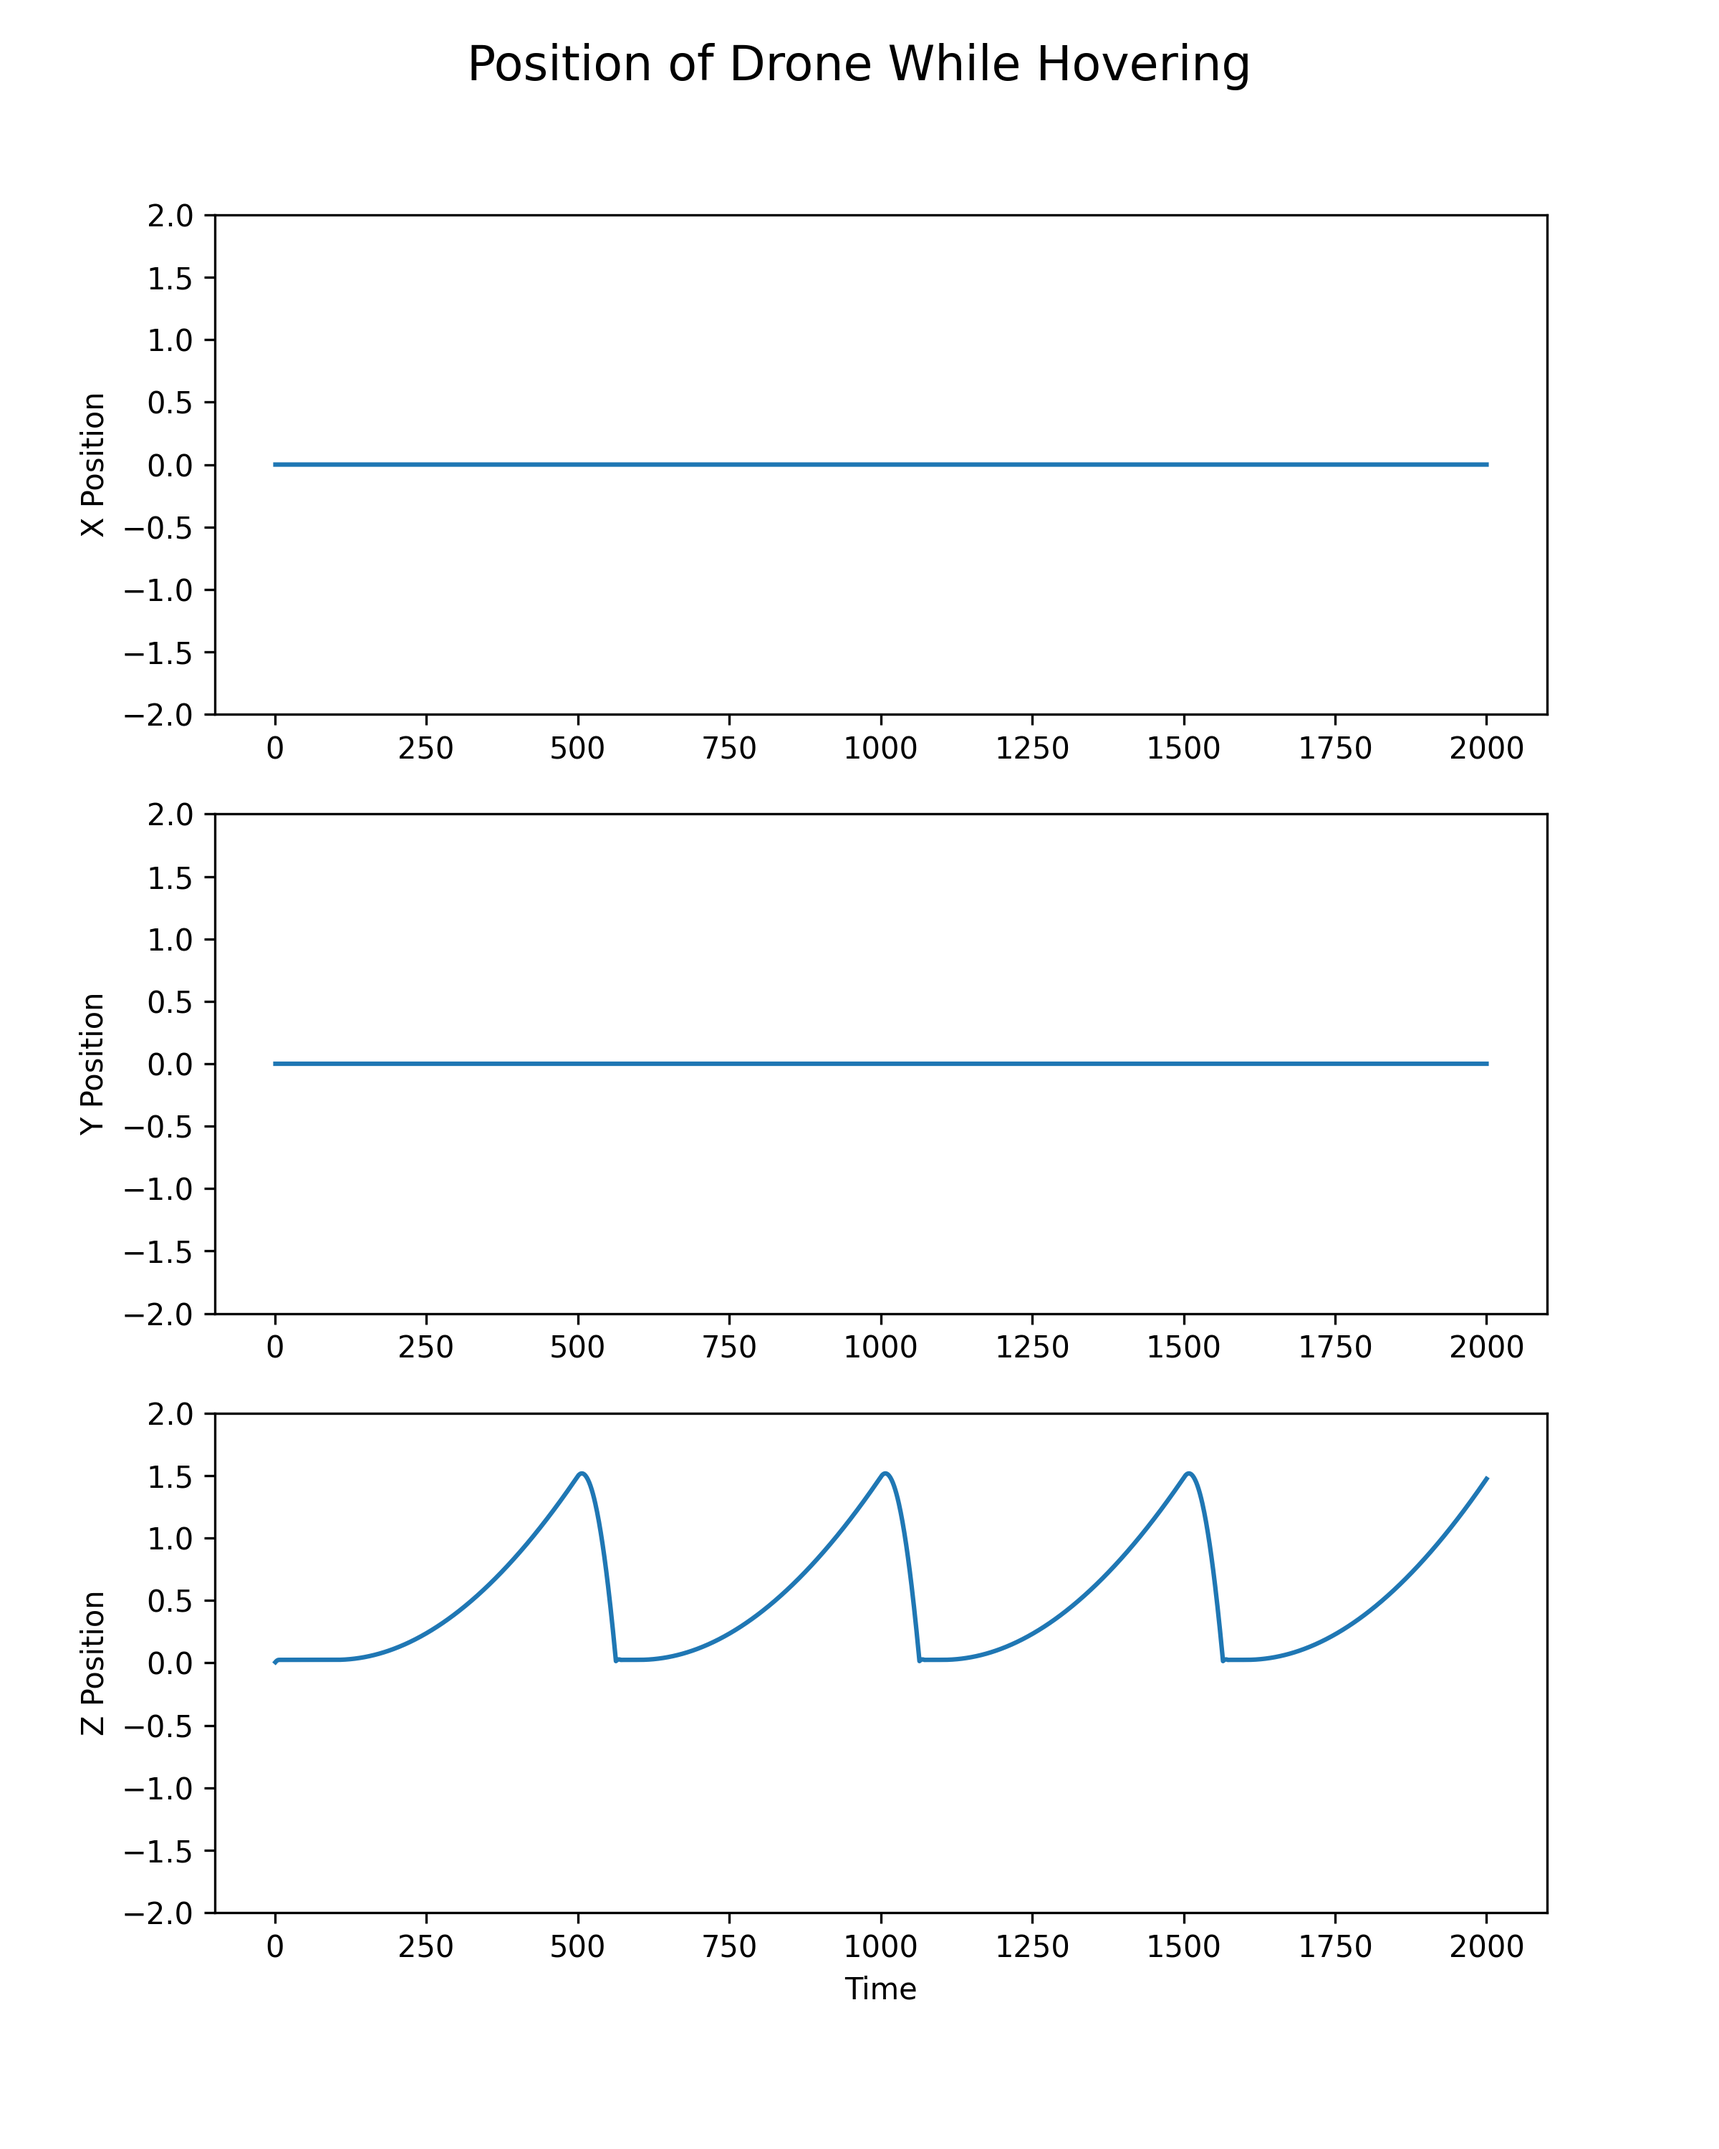
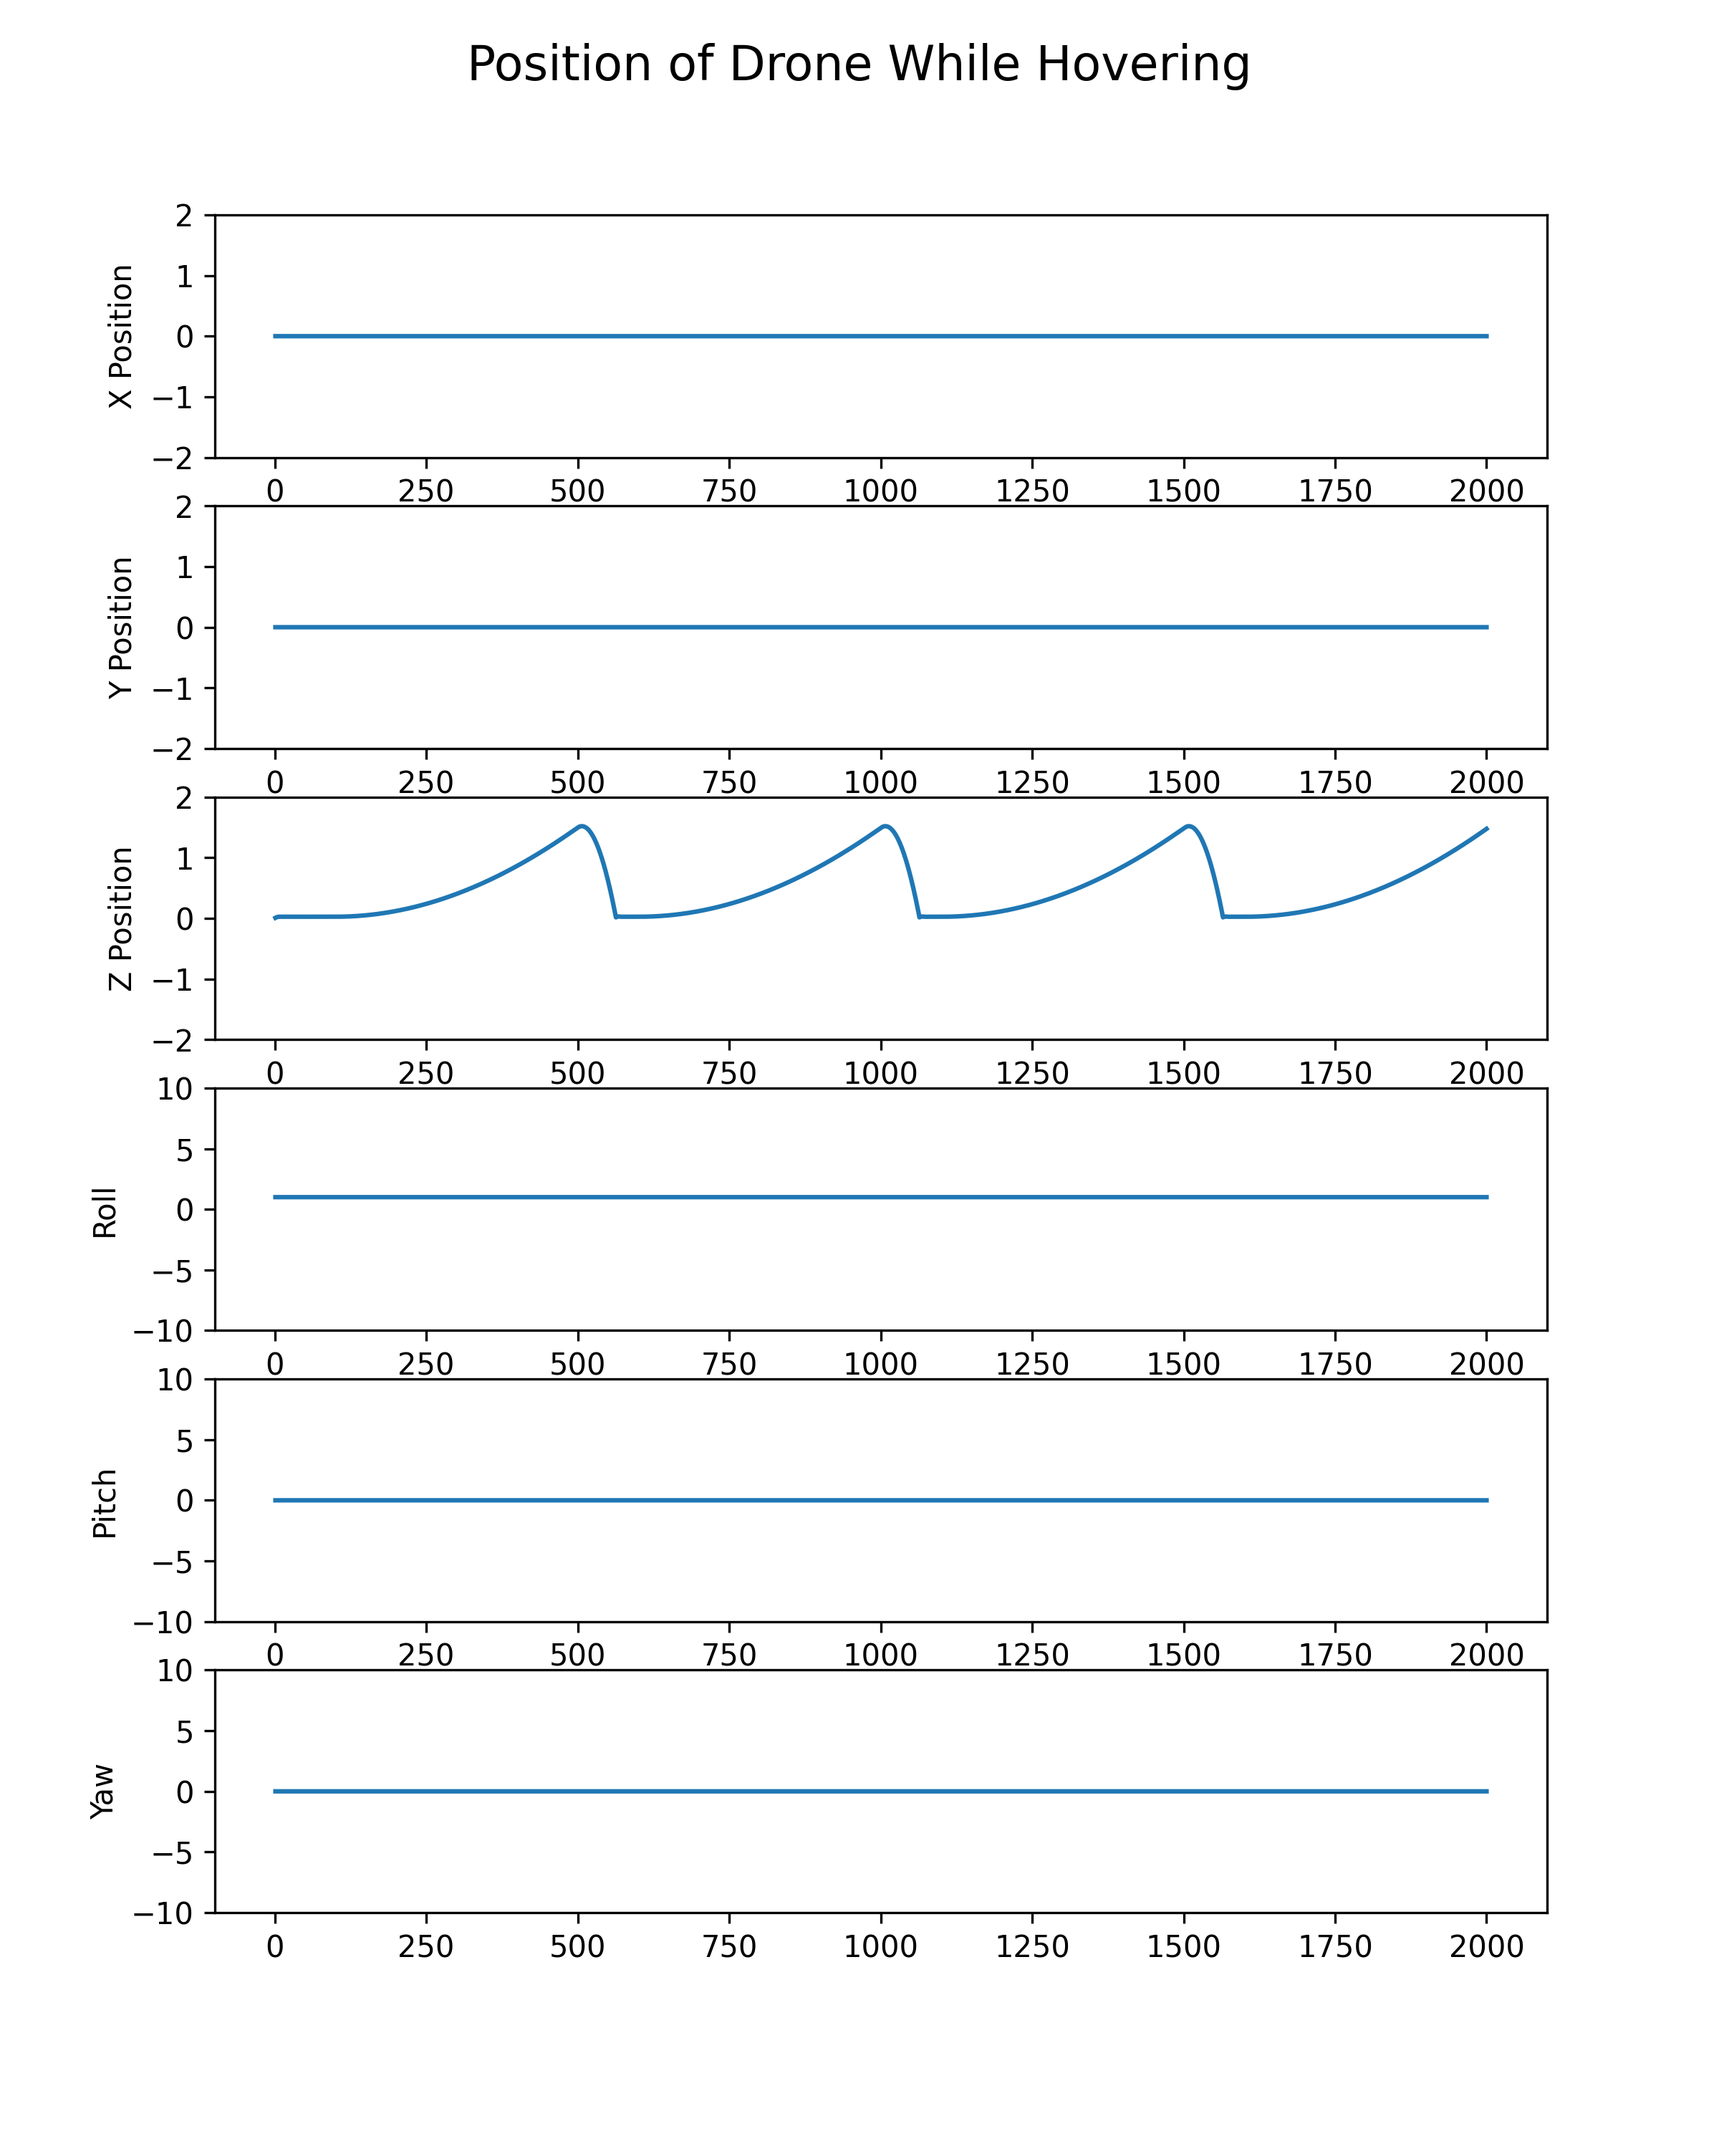
updated code

diff --git a/TestingDrones2.py b/TestingDrones2.py
@@ -18,7 +18,11 @@ with mujoco.viewer.launch_passive(m, d) as viewer:
   xlist =[]
   ylist =[]
   zlist =[]
-  while viewer.is_running() and timestep < 2000:
+
+  rolllist =[]
+  pitchlist =[]
+  yawlist =[]
+  while viewer.is_running() and timestep < 750:
     i += 1
     timestep += 1
     timesteplist.append(timestep)
@@ -28,7 +32,7 @@ with mujoco.viewer.launch_passive(m, d) as viewer:
     # a policy and applies a control signal before stepping the physics.
     mujoco.mj_step(m, d)
     if i > 100 and i < 500:
-      control_signals = np.array([4, 0, 0, 0])
+      control_signals = np.array([4, 0, 0.02, 0])
     elif i > 500:
       i = 0
     else:
@@ -46,6 +50,9 @@ with mujoco.viewer.launch_passive(m, d) as viewer:
     ylist.append(y)
     zlist.append(z)
     print(f"Orientation: ({roll}, {pitch}, {yaw})")
+    rolllist.append(roll)
+    pitchlist.append(pitch)
+    yawlist.append(yaw)
     print(timestep)
     
 
@@ -69,29 +76,44 @@ print("Time step list:")
 print(timesteplist)
 
 # Create a figure and subplots
-fig, axs = plt.subplots(3, 1, figsize=(8, 10))
+fig, axs = plt.subplots(6, 1, figsize=(8, 10))
 
 # Plot x position over time
 axs[0].plot(timesteplist, xlist)
 axs[0].set_ylabel('X Position')
-axs[0].set_ylim([-2, 2])
+axs[0].set_ylim([-5, 5])
 
 # Plot y position over time
 axs[1].plot(timesteplist, ylist)
 axs[1].set_ylabel('Y Position')
-axs[1].set_ylim([-2, 2])
+axs[1].set_ylim([-5, 5])
 
 # Plot z position over time
 axs[2].plot(timesteplist, zlist)
 axs[2].set_ylabel('Z Position')
 axs[2].set_xlabel('Time')
-axs[2].set_ylim([-2, 2])
+axs[2].set_ylim([-5, 5])
+
+# Plot roll position over time
+axs[3].plot(timesteplist, rolllist)
+axs[3].set_ylabel('Roll')
+axs[3].set_ylim([-10, 10])
+
+# Plot pitch position over time
+axs[4].plot(timesteplist, pitchlist)
+axs[4].set_ylabel('Pitch')
+axs[4].set_ylim([-10, 10])
+
+# Plot yaw position over time
+axs[5].plot(timesteplist, yawlist)
+axs[5].set_ylabel('Yaw')
+axs[5].set_ylim([-10, 10])
 
 # Adjust the layout to avoid overlapping labels
 #plt.tight_layout()
 
 # Show the plot
 plt.subplots_adjust(top=0.9)
-fig.suptitle('Position of Drone While Hovering', fontsize=16)
-plt.savefig('hovering_position_plot.png', dpi=300)
+fig.suptitle('Position of Drone While Moving', fontsize=16)
+plt.savefig('moving_position_plot.png', dpi=300)
 plt.show()
